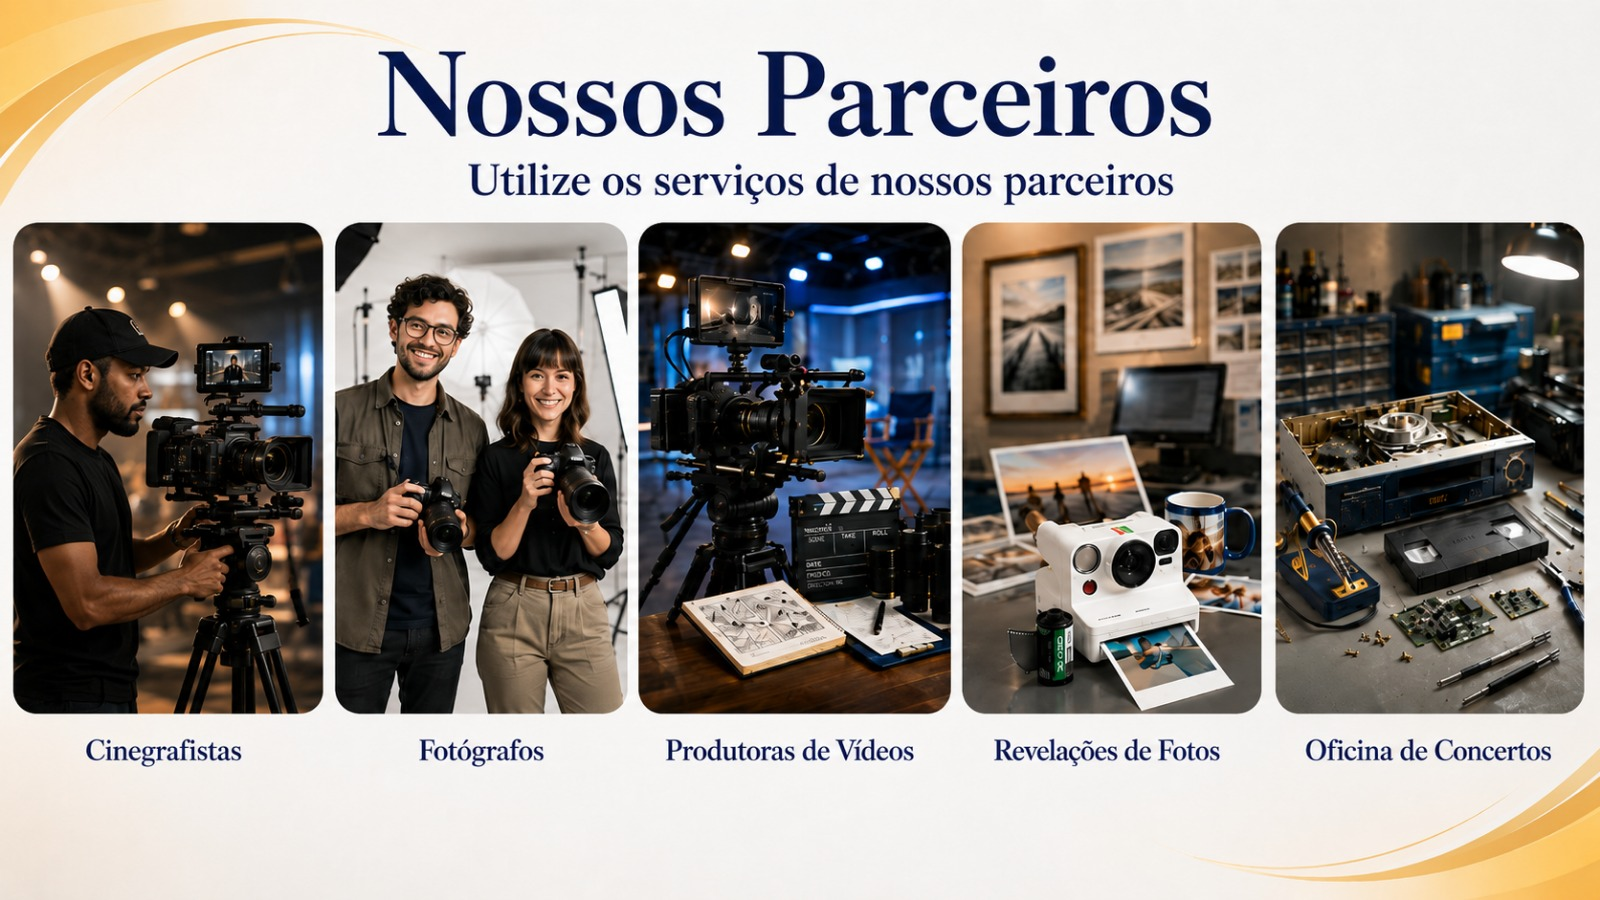
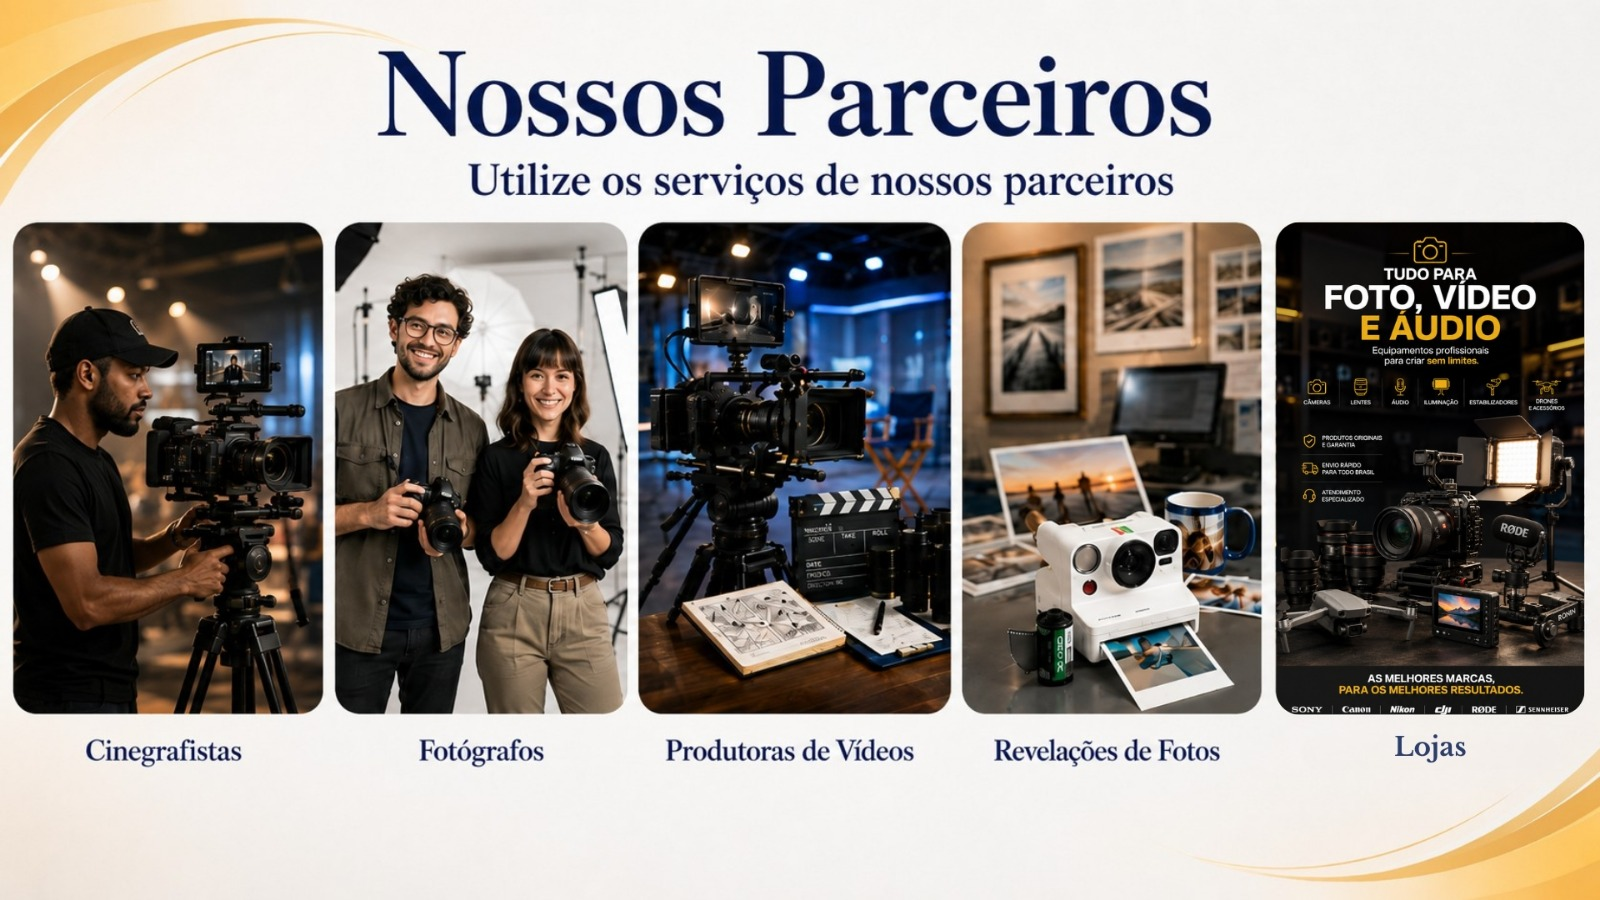
v6

Changed region(s): [[0.7812, 0.2489, 1.0, 0.8711]]

diff --git a/index.html b/index.html
@@ -62,9 +62,6 @@
           <div class="nav-dropdown-column">
             <a class="nav-dropdown-category" href="#loja">Loja da Câmera</a>
           </div>
-          <div class="nav-dropdown-column">
-            <a class="nav-dropdown-category" href="#oficinas">Oficinas</a>
-          </div>
         </div>
       </li>
     </ul>
@@ -158,7 +155,7 @@
       <p class="section-destaque">“Sua marca mais bonita, mais presente e mais lembrada.”</p>
       <div class="section-icones">
         <a class="section-icone-link"
-          href="https://wa.me/5544988444128?text=Voc%C3%AA%20foi%20indicado%20pelo%20infoClube%2C%20pode%20me%20ajudar%3F"
+          href="https://wa.me/5544988444128?text=Voc%C3%AA%20foi%20indicada%20pelo%20infoClube%2C%20pode%20me%20ajudar%3F"
           target="_blank" rel="noopener" aria-label="Solicitar orçamento pelo WhatsApp">
           <img class="section-icone-img" src="imagens/imagens_novas/icones_novos/botao_solicitar_orcamento.png"
             alt="Ícone WhatsApp">
@@ -382,13 +379,15 @@
           </div>
           <div class="p-partner-body">
             <h4>Lucas Oliveira</h4>
-            <p class="p-partner-desc">Cinegrafista há mais de 5 anos em eventos como aniversários, gestantes, casamentos
-              e eventos empresariais.</p>
+            <p class="p-partner-desc">Profissional com mais de 26 anos de atuação no audiovisual. Trabalha como
+              cinegrafista, repórter cinematográfico, jornalista e editor de imagens, realizando filmagens em
+              ambientes internos e externos, além da produção de documentários, vídeos institucionais e outros
+              projetos audiovisuais.</p>
             <div class="p-partner-icons" aria-label="Equipamentos">
               <img src="imagens/imagens_novas/icones_novos/icone_drone_e_camera.png" alt="Câmera e drone">
             </div>
             <a class="p-btn-whatsapp"
-              href="https://wa.me/55449988037567?text=Voc%C3%AA%20foi%20indicado%20pelo%20infoClube%2C%20pode%20me%20ajudar%3F"
+              href="https://wa.me/5544988037567?text=Voc%C3%AA%20foi%20indicado%20pelo%20infoClube%2C%20pode%20me%20ajudar%3F"
               target="_blank" rel="noopener" aria-label="Solicitar orçamento pelo WhatsApp">
               <img src="imagens/imagens_novas/icones_novos/botao_solicitar_orcamento.png" alt="Solicitar orçamento">
             </a>
@@ -400,13 +399,15 @@
           </div>
           <div class="p-partner-body">
             <h4>Eleandro Rossi</h4>
-            <p class="p-partner-desc">Cinegrafista há mais de 5 anos em eventos como aniversários, gestantes, casamentos
-              e eventos empresariais.</p>
+            <p class="p-partner-desc">Com uma trajetória de mais de 30 anos no setor da comunicação, atua como
+              jornalista, diretor e produtor de vídeo. Sua experiência é direcionada ao planejamento e à criação de
+              conteúdos audiovisuais, com destaque para produções corporativas, projetos personalizados, empresas,
+              instituições e política.</p>
             <div class="p-partner-icons" aria-label="Equipamentos">
               <img src="imagens/imagens_novas/icones_novos/icone_drone_e_camera.png" alt="Câmera e drone">
             </div>
             <a class="p-btn-whatsapp"
-              href="https://wa.me/55449999621020?text=Voc%C3%AA%20foi%20indicado%20pelo%20infoClube%2C%20pode%20me%20ajudar%3F"
+              href="https://wa.me/5544999621020?text=Voc%C3%AA%20foi%20indicado%20pelo%20infoClube%2C%20pode%20me%20ajudar%3F"
               target="_blank" rel="noopener" aria-label="Solicitar orçamento pelo WhatsApp">
               <img src="imagens/imagens_novas/icones_novos/botao_solicitar_orcamento.png" alt="Solicitar orçamento">
             </a>
@@ -458,7 +459,7 @@
               <img src="imagens/imagens_novas/icones_novos/icone_somente_camera.png" alt="Câmera">
             </div>
             <a class="p-btn-whatsapp"
-              href="https://wa.me/55449999529389?text=Voc%C3%AA%20foi%20indicada%20pelo%20infoClube%2C%20pode%20me%20ajudar%3F"
+              href="https://wa.me/5544999529389?text=Voc%C3%AA%20foi%20indicada%20pelo%20infoClube%2C%20pode%20me%20ajudar%3F"
               target="_blank" rel="noopener" aria-label="Solicitar orçamento pelo WhatsApp">
               <img src="imagens/imagens_novas/icones_novos/botao_solicitar_orcamento.png" alt="Solicitar orçamento">
             </a>
@@ -502,7 +503,7 @@
           de comunicação eleitoral e marketing político, desenvolvendo projetos que fortalecem a imagem de empresas,
           instituições, lideranças e candidatos.</p>
         <a class="p-btn-whatsapp oficinas-btn"
-          href="https://wa.me/55449999621020?text=Voc%C3%AA%20foi%20indicado%20pelo%20infoClube%2C%20pode%20me%20ajudar%3F"
+          href="https://wa.me/5544999621020?text=Voc%C3%AA%20foi%20indicado%20pelo%20infoClube%2C%20pode%20me%20ajudar%3F"
           target="_blank" rel="noopener" aria-label="Solicitar orçamento pelo WhatsApp">
           <img src="imagens/imagens_novas/icones_novos/botao_solicitar_orcamento.png" alt="Solicitar orçamento">
         </a>
@@ -531,30 +532,7 @@
       </div>
     </div>
   </section>
-
-  <section class="p-section p-section--partners" id="oficinas">
-    <h2 class="p-cover-title p-cover-title--oficinas">Oficinas</h2>
-    <div class="oficinas-horizontal-card">
-      <div class="oficinas-photo">
-        <img src="imagens/imagens_novas/parceiros_novos/oficina/capa_oficina.png" alt="Categoria oficinas">
-      </div>
-      <div class="oficinas-logo-col">
-        <img src="imagens/imagens_novas/parceiros_novos/oficina/multivideo_assitencia.png"
-          alt="Multivídeo Assistência Técnica">
-      </div>
-      <div class="oficinas-info-col">
-        <p class="oficinas-desc">A MULTIVIDEO - Assistência técnica de projetores (data show/multimídia), equipamentos
-          de áudio e vídeo profissional em Londrina - PR, atendendo produtoras de vídeo, igrejas, emissoras de TV,
-          universidades, escolas, empresas e profissionais liberais.</p>
-        <a class="p-btn-whatsapp oficinas-btn"
-          href="https://wa.me/55439999954005?text=Voc%C3%AA%20foi%20indicado%20pelo%20infoClube%2C%20pode%20me%20ajudar%3F"
-          target="_blank" rel="noopener" aria-label="Solicitar orçamento pelo WhatsApp">
-          <img src="imagens/imagens_novas/icones_novos/botao_solicitar_orcamento.png" alt="Solicitar orçamento">
-        </a>
-      </div>
-    </div>
-  </section>
-
+  
   <footer>
     <div class="footer-content">
       <div class="footer-brand">
@@ -655,7 +633,6 @@
           <li><a href="#fotografos">Fotógrafo</a></li>
           <li><a href="#produtoras">Produtoras</a></li>
           <li><a href="#loja">Loja da Câmera</a></li>
-          <li><a href="#oficinas">Oficinas</a></li>
         </ul>
       </div>
     </div>

diff --git a/script.js b/script.js
@@ -22,8 +22,7 @@ document.addEventListener('DOMContentLoaded', function () {
     'cinegrafistas',
     'fotografos',
     'produtoras',
-    'revelacao',
-    'oficinas'
+    'revelacao'
   ];
   const sections = observedSectionIds
     .map(function (sectionId) { return document.getElementById(sectionId); })
@@ -48,8 +47,7 @@ document.addEventListener('DOMContentLoaded', function () {
     'cinegrafistas',
     'fotografos',
     'produtoras',
-    'loja',
-    'oficinas'
+    'loja'
   ]);
   const servicesLink = navLinks.find(function (link) {
     return link.getAttribute('href') === '#videos';
@@ -141,7 +139,7 @@ document.addEventListener('DOMContentLoaded', function () {
   //     título do topo/header.
   //   - Monóculo: desce 1 "scroll" extra (STABLE_TOP_PX), aproximando o
   //     título do rodapé.
-  //   - Parceiros (cinegrafistas, fotógrafos, produtoras, loja, oficinas):
+  //   - Parceiros (cinegrafistas, fotógrafos, produtoras, loja):
   //     sobem 1 "scroll" extra (STABLE_TOP_PX), aproximando o título
   //     do topo/header.
   // ===================================================================
